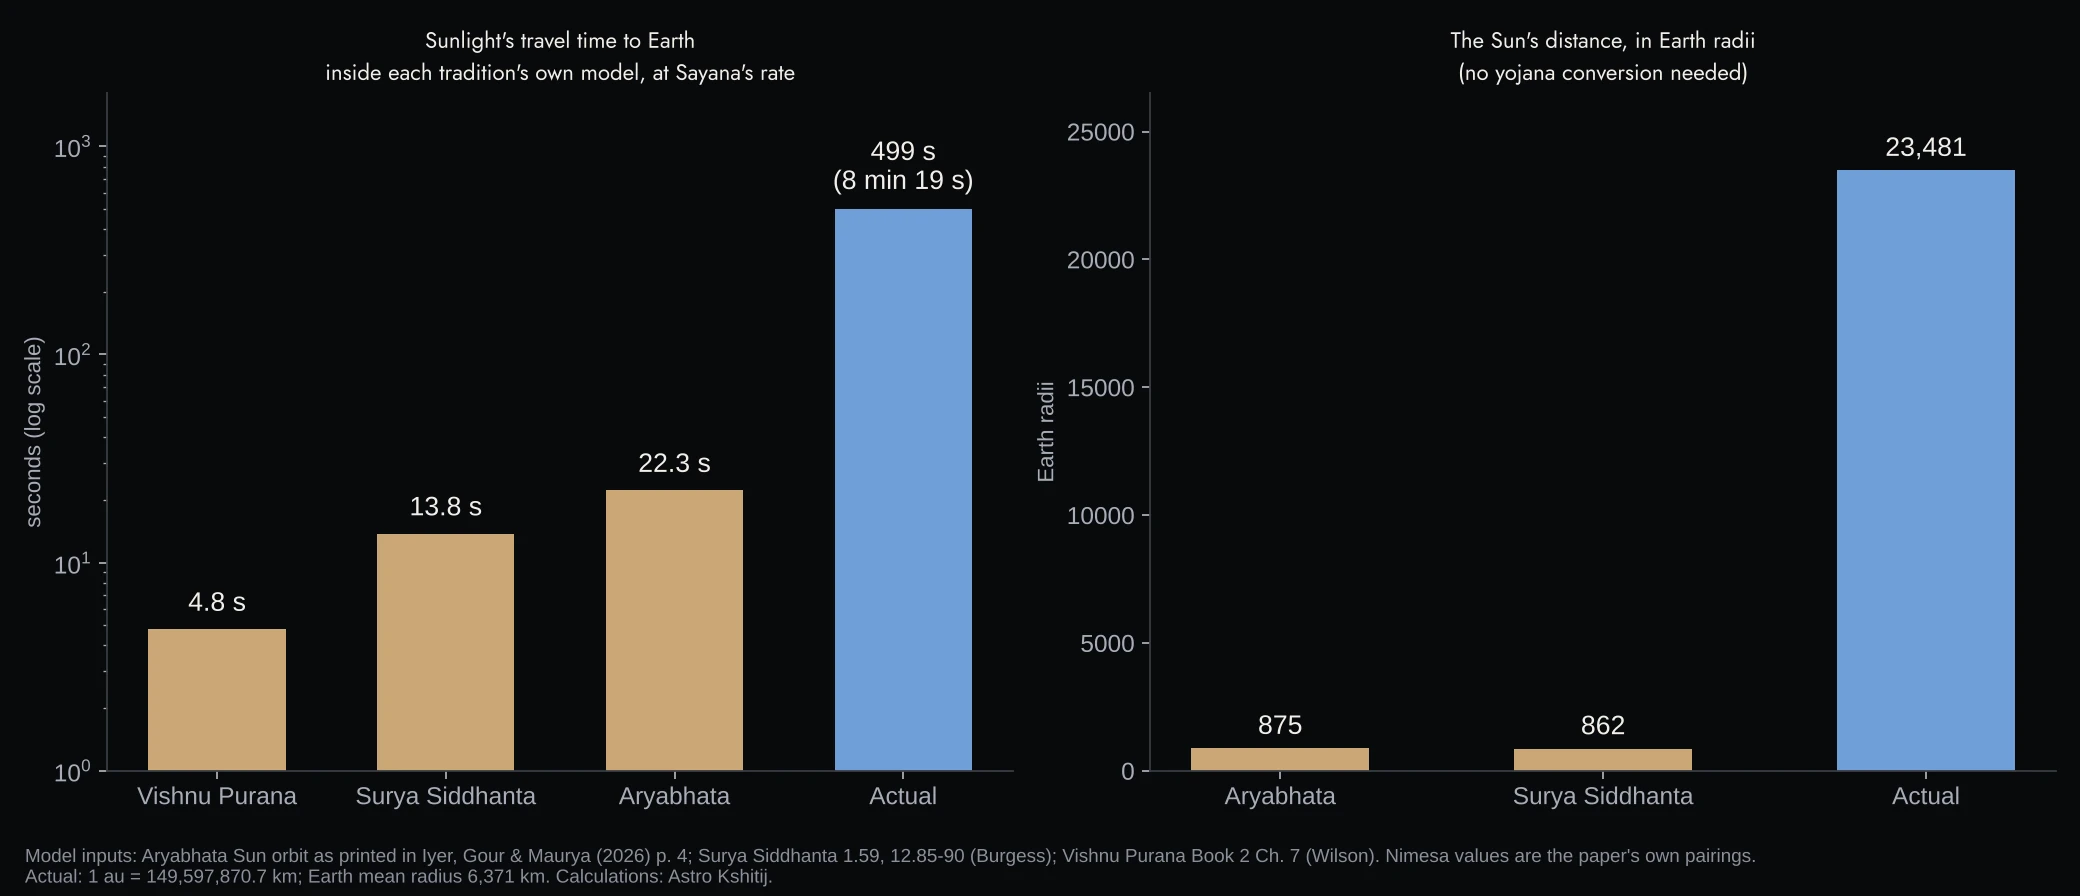
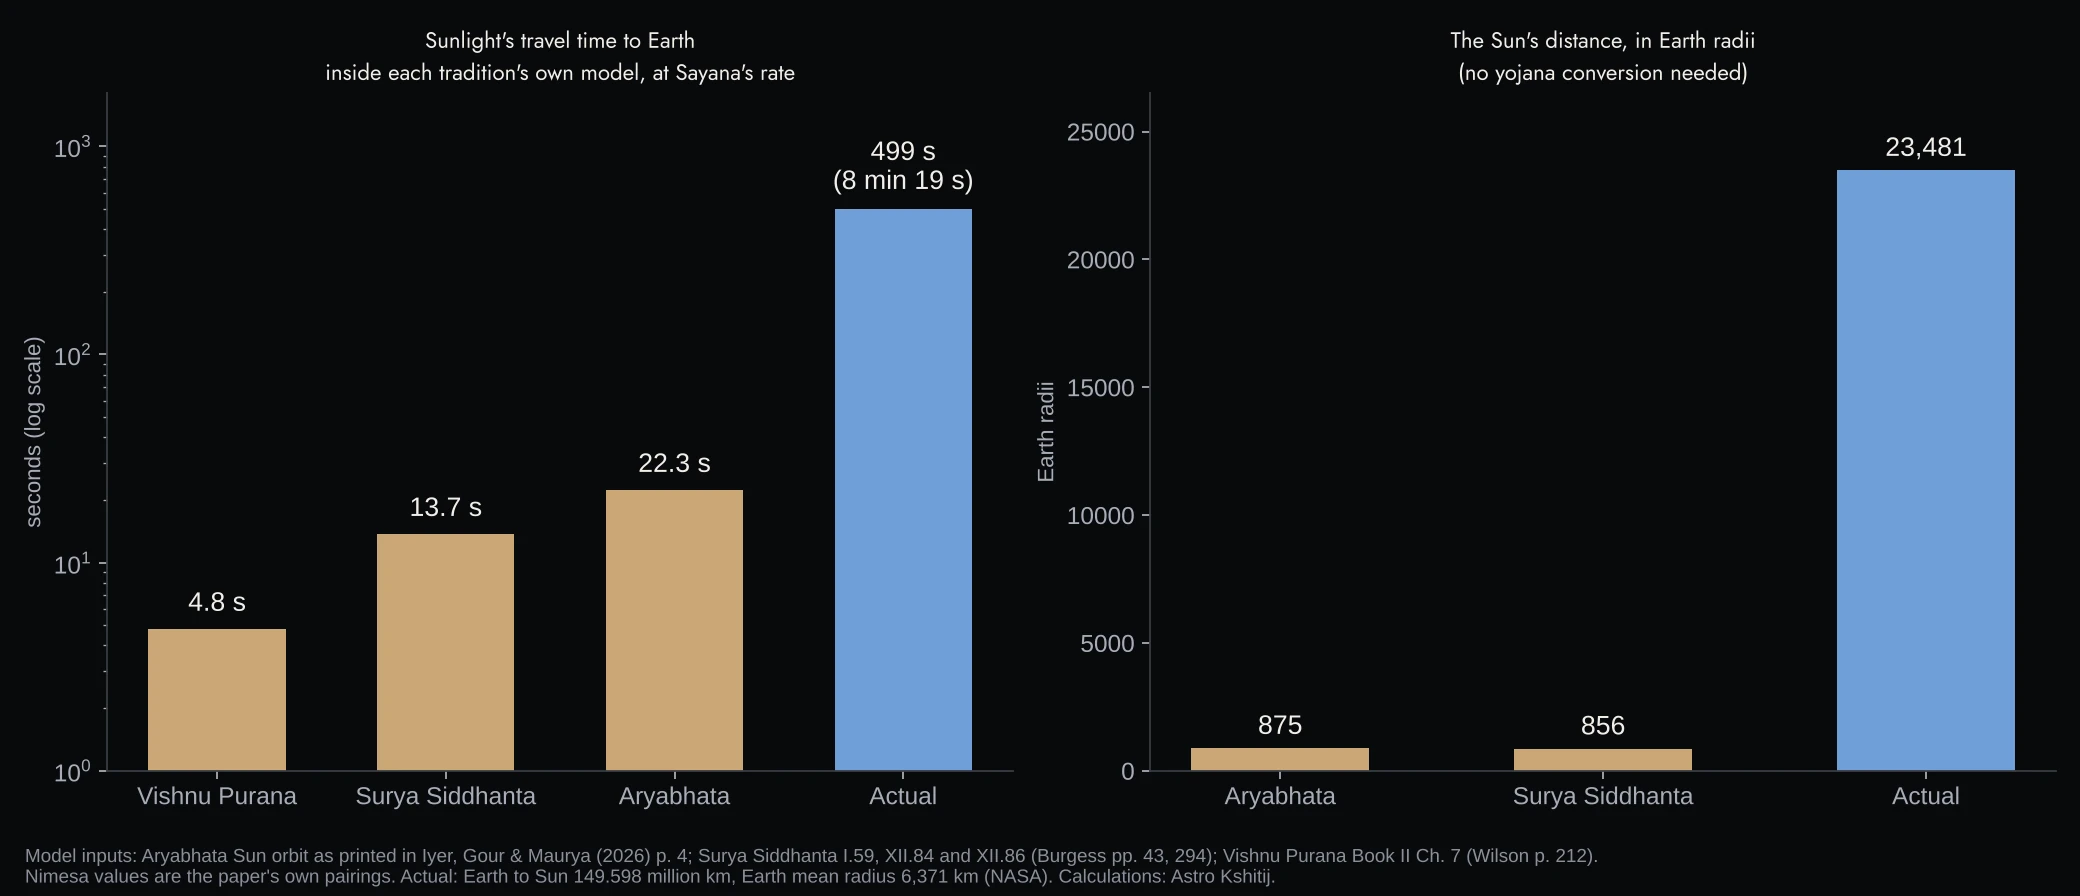
Use the Surya Siddhanta's own distance rule and fix measurement history
Surya Siddhanta Sun distance now follows verse XII.84 (684,870 yojanas,
856 Earth radii, 13.7 s) with page references to Burgess pp. 43, 294, 295.
Corrects the Galileo line (proposed 1638; Accademia del Cimento saw no
delay in 1667), credits Huygens for turning Romer's timing into a speed,
and updates the chart and sources.

Claude-Session: https://claude.ai/code/session_017hSnEPpzjUy4sdcNh2i1Jw

Changed region(s): [[0.0, 0.9375, 0.8438, 1.0], [0.75, 0.7812, 0.7812, 0.8125]]

diff --git a/content/blog/did-an-ancient-text-know-the-speed-of-light.md b/content/blog/did-an-ancient-text-know-the-speed-of-light.md
@@ -153,7 +153,7 @@ The yojana cancels out, so no kilometre conversion affects this result.
 
 **Aryabhata.** The paper prints the Sun's orbit as 2,887,666.8 yojanas around, which puts the Sun about 459,585 yojanas away. With Earth's radius at 525 yojanas, that's about **875 Earth radii**, against a real 23,481, so about 27 times too close. With the paper's 0.2133 s nimesa: 459,585 ÷ 4,404 × 0.2133 = **22.3 seconds**. (Aryabhata's Moon, by contrast, sits about 65.5 Earth radii away against a real 60.3. The model works near Earth and breaks further out.)
 
-**Surya Siddhanta.** Earth's diameter is 1,600 yojanas (verse 1.59) and the Sun's orbit 4,331,500 yojanas (verses 12.85 to 90), so the Sun is about 689,378 yojanas away, or about **862 Earth radii**. With the paper's 0.088 s nimesa: **13.8 seconds**.
+**Surya Siddhanta.** Earth's diameter is 1,600 yojanas (verse I.59) and the Sun's orbit 4,331,500 yojanas (verse XII.86). The text gives its own rule for distance (verse XII.84): multiply the orbit by Earth's diameter and divide by Earth's circumference to get the orbit's diameter. That puts the Sun about 684,870 yojanas from Earth's centre, or about **856 Earth radii**. With the paper's 0.088 s nimesa: **13.7 seconds**.
 
 **Vishnu Purana.** The Vishnu Purana places the Sun 100,000 yojanas from Earth and the Moon a further 100,000 beyond it. Puranic cosmology is a different kind of picture from the geometric models above, and Puranic texts don't all give the same figures, so treat this as one Puranic statement rather than "the" Puranic distance. I use it because the paper takes its main nimesa from this text, and links Sayana's source to this broad tradition.
 
@@ -163,7 +163,7 @@ The yojana cancels out, so no kilometre conversion affects this result.
 
 With the Vishnu Purana's own nimesa (0.2133 s): 100,000 ÷ 4,404 × 0.2133 = **4.8 seconds**.
 
-![Two bar charts. Left: sunlight's travel time to Earth inside each model at Sayana's rate, 4.8 s for the Vishnu Purana, 13.8 s for the Surya Siddhanta and 22.3 s for Aryabhata, against 499 s in reality. Right: the Sun's distance in Earth radii, 875 for Aryabhata and 862 for the Surya Siddhanta, against 23,481 in reality](/images/blog/sayana-audit/pressure-test-chart.webp)
+![Two bar charts. Left: sunlight's travel time to Earth inside each model at Sayana's rate, 4.8 s for the Vishnu Purana, 13.7 s for the Surya Siddhanta and 22.3 s for Aryabhata, against 499 s in reality. Right: the Sun's distance in Earth radii, 875 for Aryabhata and 856 for the Surya Siddhanta, against 23,481 in reality](/images/blog/sayana-audit/pressure-test-chart.webp)
 
 *Figure 9: Sunlight's travel time and the Sun's distance, in each tradition's own numbers, against reality. (Calculations: Astro Kshitij)*
 
@@ -172,7 +172,7 @@ With the Vishnu Purana's own nimesa (0.2133 s): 100,000 ÷ 4,404 × 0.2133 = **4
 | Tradition | Sun's distance in the text | Nimesa (paper's pairing) | Sunlight would arrive in |
 |---|---|---|---|
 | Aryabhata | 459,585 yojanas | 0.2133 s | 22.3 s |
-| Surya Siddhanta | 689,378 yojanas | 0.088 s | 13.8 s |
+| Surya Siddhanta | 684,870 yojanas | 0.088 s | 13.7 s |
 | Vishnu Purana | 100,000 yojanas | 0.2133 s | 4.8 s |
 | Reality | 149.6 million km | | 499 s |
 
@@ -184,9 +184,9 @@ But it does show two things. First, the number can't have come from these astron
 
 The paper disclaims a measurement, but the popular claim usually implies one. Historically, there have been two routes to measuring the speed of light.
 
-On the ground, you have to time light over a distance of kilometres, where it takes only tens of millionths of a second. Galileo's lantern experiment, described in 1638, could detect no delay at all. The first successful measurement on the ground was Fizeau's in 1849, using a rapidly rotating toothed wheel over about 8.6 km.
+On the ground, you have to time light over a distance of kilometres, where it takes only tens of millionths of a second. Galileo proposed a lantern experiment in 1638; when the Accademia del Cimento in Florence tried it in 1667, with lanterns about a mile apart, no delay was observed. The first successful measurement on the ground was Fizeau's in 1849, using a rapidly rotating toothed wheel and a mirror about 8 km away.
 
-In the sky, Ole Rømer made the first estimate in 1676 by timing the eclipses of Jupiter's moon Io. That method only works if you know the size of Earth's orbit. These traditions placed the Sun 27 or more times too close, so an estimate built on their own scale would have come out roughly that many times too small.
+In the sky, Ole Rømer made the first estimate in 1676 by timing the eclipses of Jupiter's moon Io, and Christiaan Huygens turned it into a speed by combining it with an estimate of the size of Earth's orbit. That method only works if you know that size. These traditions placed the Sun 27 or more times too close, so an estimate built on their own scale would have come out roughly that many times too small.
 
 The paper cites no instrument or procedure for either route, and I know of none. That doesn't prove no measurement ever happened. It means there is no evidence one did, and the one route that existed in principle would have failed with these traditions' own distances.
 
@@ -332,13 +332,13 @@ Everything below works on an ordinary calculator.
 **Sunlight travel time in a tradition's own units:** `(D ÷ 4404) × N` seconds, where D is the Sun's distance in yojanas. For an orbit given as a circumference C, `D = C ÷ (2 × π)`.
 
 - Aryabhata: `2887666.8 ÷ (2 × π) ÷ 4404 × 0.2133 ≈ 22.3` s
-- Surya Siddhanta: `4331500 ÷ (2 × π) ÷ 4404 × 0.088 ≈ 13.8` s
+- Surya Siddhanta, using its own rule (XII.84) with circumference = √10 × diameter: `4331500 ÷ √10 ÷ 2 ÷ 4404 × 0.088 ≈ 13.7` s
 - Vishnu Purana: `100000 ÷ 4404 × 0.2133 ≈ 4.8` s
 - Reality: `149597870.7 ÷ 299792.458 ≈ 499` s
 
 **The line read literally, in Aryabhata's model:** the Sun's daily motion is `2887666.8 ÷ 365.2587 ≈ 7906` yojanas per day, while Sayana's rate is `4404 × 405000 ≈ 1.78 billion` yojanas per day, over 200,000 times more. (365.2587 is Aryabhata's year: 1,577,917,500 days ÷ 4,320,000 revolutions.)
 
-**Sun's distance in Earth radii:** `(C ÷ (2 × π)) ÷ (Earth diameter in yojanas ÷ 2)`. Aryabhata: `459585 ÷ 525 ≈ 875`. Surya Siddhanta: `689378 ÷ 800 ≈ 862`. Reality: `149597870.7 ÷ 6371 ≈ 23481`.
+**Sun's distance in Earth radii:** `(C ÷ (2 × π)) ÷ (Earth diameter in yojanas ÷ 2)`. Aryabhata: `459585 ÷ 525 ≈ 875`. Surya Siddhanta: `684870 ÷ 800 ≈ 856`. Reality: `149597870.7 ÷ 6371 ≈ 23481`.
 
 **The Surya Siddhanta Sun orbit, from its own rules:** the Moon's orbit of 324,000 yojanas, times the Moon's 57,753,336 revolutions, divided by the Sun's 4,320,000 revolutions per great age: `324000 × 57753336 ÷ 4320000 ≈ 4331500`.
 
@@ -394,11 +394,12 @@ The Mahabharata row is an approximation rather than a clear mistake. Its hierarc
 ## Sources
 
 - Iyer, K., Gour, M. and Maurya, G. (2026). Pre-Rømer reflections on the speed of light in Indian texts: a scientific and philological reassessment of Sāyaṇa's Ṛgveda commentary. *Proceedings of the Indian National Science Academy*, published 3 August 2026. [doi.org/10.1007/s43538-026-00814-x](https://doi.org/10.1007/s43538-026-00814-x). All highlighted figures are from this paper; highlights added.
-- Burgess, E. (trans.) (1935). *Translation of the Sūrya Siddhānta*. University of Calcutta. Verse I.59, printed pp. 43 to 44; verses XII.85 to 90. [PDF](https://classicalastrologer.com/wp-content/uploads/2018/04/surya_siddhanta_english.pdf)
+- Burgess, E. (trans.) (1935). *Translation of the Sūrya Siddhānta*. University of Calcutta. Verse I.59, printed p. 43; verses XII.84 to 86, printed p. 294; orbit table, printed p. 295. [PDF](https://classicalastrologer.com/wp-content/uploads/2018/04/surya_siddhanta_english.pdf)
 - Wilson, H. H. (trans.) (1840). *The Vishnu Purana*, Book 2, Chapter 7. [Online text](https://sacred-texts.com/hin/vp/vp065.htm)
 - Shamasastry, R. (trans.). *Kautilya's Arthashastra*, Book 2, Chapter 20, on the ordinary and garhapatya dhanus. [Online text](https://www.wisdomlib.org/hinduism/book/kautilya-arthashastra/d/doc366066.html)
 - Venugopal, P., Rupa, K., Uma, S. K. and Rao, S. B. (2019). The concepts of deśāntara and yojana in Indian astronomy. *Journal of Astronomical History and Heritage*, 22(3), 401 to 406, printed p. 403. [PDF](https://adsabs.harvard.edu/pdf/2019JAHH...22..401V)
 - Jha, G. (trans.). *Manusmṛti with the commentary of Medhātithi*, verse 8.406. [English rendering](https://www.wisdomlib.org/hinduism/book/manusmriti-with-the-commentary-of-medhatithi/d/doc201341.html) and [Sanskrit commentary](https://www.wisdomlib.org/hinduism/book/manusmriti-with-manubhashya-sanskrit/d/doc1648181.html).
 - NASA. [Earth Fact Sheet](https://nssdc.gsfc.nasa.gov/planetary/factsheet/earthfact.html).
 - International Astronomical Union (2012). Resolution B2, defining the astronomical unit as 149,597,870,700 m.
-- Galileo Galilei (1638). *Dialogues Concerning Two New Sciences* (lantern experiment); H. Fizeau (1849), *Comptes rendus* 29, 90 to 92; O. Rømer (1676), on the eclipses of Io.
+- Wikipedia, [Speed of light](https://en.wikipedia.org/wiki/Speed_of_light), sections on first measurement attempts and the history of measurements (Galileo, Accademia del Cimento, Rømer and Huygens, Fizeau).
+- Wikipedia, [Kali ahargana](https://en.wikipedia.org/wiki/Kali_ahargana), for the Aryabhatiya's 1,577,917,500 civil days and 4,320,000 solar revolutions per yuga.
